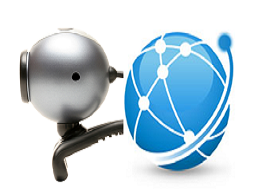
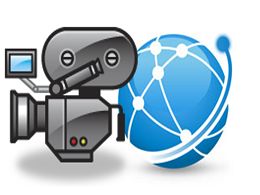
add video search, modified from audio search+cached filesystem+html5 video (dynamic load)

diff --git a/public_html/vs.html b/public_html/vs.html
@@ -24,7 +24,7 @@ THE SOFTWARE.
 -->
 <html>
     <head>
-        <title>Acoustic Search</title>
+        <title>Video Search</title>
         <meta charset="UTF-8">
         <meta name="viewport" content="width=device-width, initial-scale=1.0">
         
@@ -35,14 +35,50 @@ THE SOFTWARE.
         <script src="js/illiad.min.js"></script>
         <script src="js/jquery-ajax-blob-arraybuffer.js"></script>
         <script src="js/oms.min.js"></script>
-
+        
         <script>
-            //window.open("https://acoustic.ifp.illinois.edu:8081");
+            var url = "https://acoustic.ifp.illinois.edu:8081";
+            //var url = "http://localhost:8383/temporary/";
             var gLoc;
             var map;
             var oms;
             var iw = new google.maps.InfoWindow();
             var audioCtx = new AudioContext();
+
+            //window.open(url);
+            window.requestFileSystem  = window.requestFileSystem || window.webkitRequestFileSystem;
+            
+            /**
+             * onError
+             * 
+             * Error callback when creating cache
+             * 
+             * @argument {String} e
+             * @returns {none}
+             */
+            function onError(e) {
+                console.log('Error', e);
+            }
+            
+            /**
+             * loadVideo
+             * 
+             * Reload the video
+             * 
+             * @argument {String} filename
+             * @returns {none}
+             */
+            function loadVideo(filename){
+                var mSource = document.getElementById('mSource');
+                mSource.src = "filesystem:"+url+filename;
+                
+                var mVideoP = document.getElementById('videoP');
+                mVideoP.innerHTML = filename;
+                
+                var mVideo = document.getElementById('mVideo');
+                mVideo.load();
+                mVideo.play();
+            }
             
             $(function(){
                 gLoc = [$('#lat').val(), $('#lng').val()];
@@ -56,16 +92,26 @@ THE SOFTWARE.
                 oms=new OverlappingMarkerSpiderfier(map);
                 
                 oms.addListener('click', function(marker) {
-                    // Download sound data and play
+                    // Download video data and play
                     IllDownGrid('publicDb', 'publicUser', 'publicPwd', 'v_data', marker.filename, function(data){
-                        audioCtx.decodeAudioData(data, function(buf){
-                            var source = audioCtx.createBufferSource();
-                            source.buffer = buf;
-                            source.connect(audioCtx.destination);
-                            source.start(0);
-                        }, function(error){
-                            console.log('audio decoding error');
-                        });
+                        // download video and cache in file system
+                        window.requestFileSystem(window.TEMPORARY, 1024 * 1024, function(fs) {
+                            fs.root.getFile(marker.filename, {create: true}, function(fileEntry) {
+                                fileEntry.createWriter(function(fileWriter) {
+                                    // use html5 video tag to play the cached file
+                                    fileWriter.onwriteend = function(e){
+                                        loadVideo(marker.filename);
+                                    };
+                                    
+                                    fileWriter.onerror = function(e) {
+                                        console.log('Write failed: ' + e.toString());
+                                    };
+                                    
+                                    var blob = new Blob([data], {type: 'video/mp4'});
+                                    fileWriter.write(blob);
+                                },onError);
+                            },onError);
+                        },onError);
                     });
                 });
                 oms.addListener('spiderfy', function(markers) {
@@ -86,13 +132,14 @@ THE SOFTWARE.
                 },1000);
             });
             
-            // Acoustic search
-            // 
-            // Long Le
-            // University of Illinois
-            // longle1@illinois
-            //
-            function acousticSearch() {
+            /**
+             * videoSearch
+             * 
+             * Perform video search in the database
+             * 
+             * @returns {none}
+             */ 
+            function videoSearch() {
                 var markers = oms.getMarkers();
                 for (var i = 0; i <markers.length;i++){
                     markers[i].setMap(null);
@@ -112,13 +159,13 @@ THE SOFTWARE.
                 
                 IllQueryCol('publicDb', 'publicUser', 'publicPwd', 'v_event', q, function(events){
                     events.sort(function(a, b) {
-                        return a.logNoiseProb - b.logNoiseProb;
+                        return  b.duration - a.duration;
                     });
                     for (var i = 0; i <events.length;i++){
                         // Create a marker for each event
                         var marker = new google.maps.Marker({
                             position:new google.maps.LatLng(parseFloat(events[i].location.coordinates[1]), parseFloat(events[i].location.coordinates[0])),
-                            desc:"logNoiseProb:"+events[i].logNoiseProb+" recordDate:"+events[i].recordDate.$date+"\n"+"duration:"+events[i].duration,
+                            desc:"duration:"+events[i].duration+"\n"+"recordDate:"+events[i].recordDate.$date,
                             filename:events[i].filename,
                             icon:'https://chart.googleapis.com/chart?chst=d_map_pin_letter&chld='+ (i) +'|FF776B|000000'
                         });
@@ -144,7 +191,7 @@ THE SOFTWARE.
         <!-- Basic CSS -->
         <style>
             #googleMap {
-                width: 85%;
+                width: 80%;
                 height: 100%;
                 position: absolute;
                 background: #000;
@@ -182,9 +229,13 @@ THE SOFTWARE.
                 </fieldset>
             </form>
             
-            <input type="submit" name="button" id="button1" onclick="acousticSearch()" value="Search" />
+            <input type="submit" name="button" id="button1" onclick="videoSearch()" value="Search" />
+            <div>
+                <video id="mVideo" controls width="300" height="200">
+                    <source id="mSource" type="video/mp4"/>
+                </video>
+                <p id="videoP" style="text-align:center"></p>
+            </div>
         </div>
-        
-        
     </body>
 </html>

diff --git a/public_html/index.html b/public_html/index.html
@@ -121,7 +121,7 @@
                                                                             </div>
                                                                             <div class="4u">
                                                                                     <a href="vs.html" class="wrapper1">
-                                                                                        <span class="text">Video Search (Under construction)</span>
+                                                                                        <span class="text">Video Search</span>
                                                                                         <img class="wrapper1" src="images/vs.png" alt="">
                                                                                     </a>
                                                                             </div>
